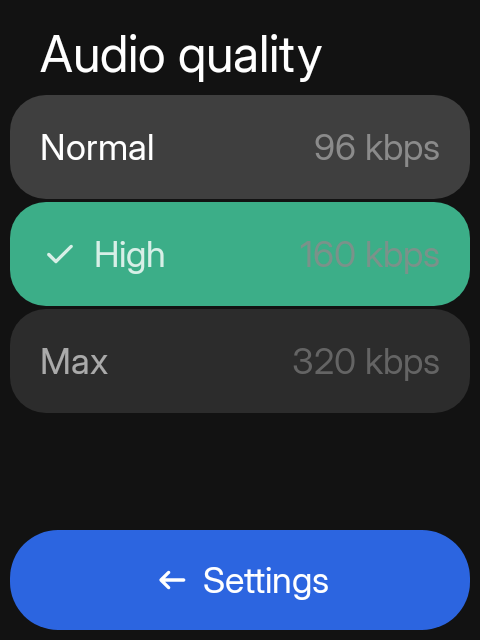
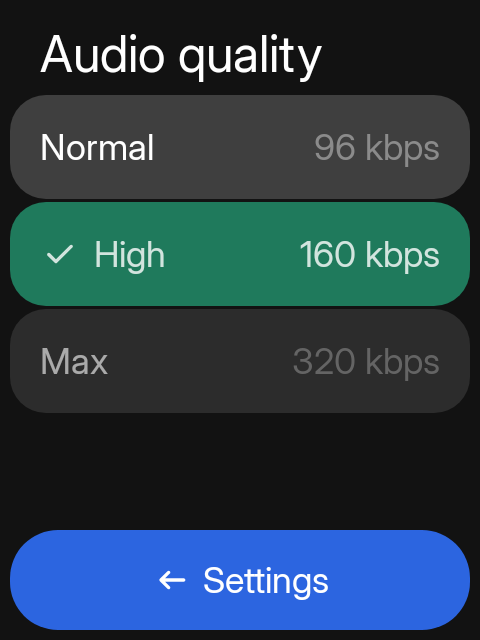
fix(settings): paint active rows in the album-tile green
The sleep timer and audio quality pickers used the bright emphasis green
for the selected row. Use the same success green as the landing page's
album tile, and keep the icon, title and trailing value white so the row
stays readable.

Changed region(s): [[0.0, 0.3125, 1.0, 0.5]]

diff --git a/app/src/main/java/io/github/manuelrtsch/sidetrack/SidetrackItem.kt b/app/src/main/java/io/github/manuelrtsch/sidetrack/SidetrackItem.kt
@@ -15,6 +15,7 @@ import androidx.compose.runtime.Composable
 import androidx.compose.ui.Alignment
 import androidx.compose.ui.Modifier
 import androidx.compose.ui.draw.clip
+import androidx.compose.ui.graphics.Color
 import androidx.compose.ui.semantics.Role
 import androidx.compose.ui.text.style.TextAlign
 import androidx.compose.ui.text.style.TextDecoration
@@ -42,6 +43,10 @@ fun SidetrackItem(
     showLinkArrow: Boolean = false,
     showLinkArrowWithSecondary: Boolean = false,
     colour: ItemColour = ItemColour.Primary,
+    /** Overrides [colour]'s container, e.g. to paint an active row in the action colour. */
+    containerColor: Color? = null,
+    /** Overrides the trailing value's colour; defaults to the muted surface tone. */
+    secondaryColor: Color? = null,
     titleDecoration: TextDecoration? = null,
     /** When set, the row is exposed as a switch/checkbox with this checked state. */
     toggleable: Boolean? = null,
@@ -52,7 +57,8 @@ fun SidetrackItem(
     onClick: (() -> Unit)? = null,
     leading: (@Composable RowScope.() -> Unit)? = null
 ) {
-    val contentColor = SidekitTheme.colors.contentColorFor(colour.container())
+    val background = containerColor ?: colour.container()
+    val contentColor = SidekitTheme.colors.contentColorFor(background)
     val content: @Composable () -> Unit = {
         Row(
             modifier = Modifier.padding(horizontal = SidekitTheme.spacing.itemPadding),
@@ -67,7 +73,7 @@ fun SidetrackItem(
                 SidekitText(
                     secondary,
                     if (secondaryNoEllipsis) Modifier else Modifier.weight(1f),
-                    color = SidekitTheme.colors.surfaceA6,
+                    color = secondaryColor ?: SidekitTheme.colors.surfaceA6,
                     textAlign = if (secondaryToEnd) TextAlign.End else null
                 )
             }
@@ -86,7 +92,7 @@ fun SidetrackItem(
             modifier = modifier.fillMaxWidth()
                 .height(SidekitTheme.spacing.itemHeight)
                 .clip(SidekitTheme.shapes.item)
-                .background(colour.container())
+                .background(background)
                 .toggleable(value = toggleable, role = toggleRole, onValueChange = { onClick?.invoke() }),
             contentAlignment = Alignment.CenterStart
         ) { content() }
@@ -95,14 +101,14 @@ fun SidetrackItem(
             modifier = modifier.fillMaxWidth()
                 .height(SidekitTheme.spacing.itemHeight)
                 .clip(SidekitTheme.shapes.item)
-                .background(colour.container())
+                .background(background)
                 .selectable(selected = selected, role = selectionRole, onClick = { onClick?.invoke() }),
             contentAlignment = Alignment.CenterStart
         ) { content() }
 
         else -> SidekitTile(
             modifier = modifier.fillMaxWidth(),
-            color = colour.container(),
+            color = background,
             onClick = onClick,
             contentAlignment = Alignment.CenterStart
         ) { content() }

diff --git a/app/src/main/java/io/github/manuelrtsch/sidetrack/SpotifySleepTimerScreen.kt b/app/src/main/java/io/github/manuelrtsch/sidetrack/SpotifySleepTimerScreen.kt
@@ -12,11 +12,11 @@ import androidx.compose.ui.focus.focusRequester
 import androidx.compose.ui.semantics.Role
 import androidx.lifecycle.compose.collectAsStateWithLifecycle
 import hrln.interactive.sidekit.design.action.SideAction
-import hrln.interactive.sidekit.design.components.ItemColour
 import hrln.interactive.sidekit.design.components.SidekitList
 import hrln.interactive.sidekit.design.components.SidekitScaffold
 import hrln.interactive.sidekit.design.components.listFade
 import hrln.interactive.sidekit.design.icons.SidekitIcon
+import hrln.interactive.sidekit.design.theme.SidekitTheme
 import io.github.manuelrtsch.sidetrack.playback.SleepTimerDurations
 import io.github.manuelrtsch.sidetrack.playback.SleepTimerState
 import kotlinx.coroutines.flow.StateFlow
@@ -48,7 +48,7 @@ fun SpotifySleepTimerScreen(
                     "Off",
                     Modifier.listFade(listState, 0).then(Modifier.focusRequester(first)),
                     icon = if (selected) SidekitIcon.Check else null,
-                    colour = if (selected) ItemColour.Secondary else ItemColour.Primary,
+                    containerColor = if (selected) SidekitTheme.colors.successA1 else null,
                     selected = selected,
                     selectionRole = Role.RadioButton,
                     onClick = onOff
@@ -66,7 +66,8 @@ fun SpotifySleepTimerScreen(
                         secondaryToEnd = true,
                         secondaryNoEllipsis = true,
                         icon = if (selected) SidekitIcon.Check else null,
-                        colour = if (selected) ItemColour.Secondary else ItemColour.Primary,
+                        containerColor = if (selected) SidekitTheme.colors.successA1 else null,
+                        secondaryColor = if (selected) SidekitTheme.colors.light else null,
                         selected = selected,
                         selectionRole = Role.RadioButton,
                         onClick = { onDuration(minutes) }
@@ -79,7 +80,7 @@ fun SpotifySleepTimerScreen(
                     "End of track",
                     Modifier.listFade(listState, SleepTimerDurations.size + 1),
                     icon = if (selected) SidekitIcon.Check else null,
-                    colour = if (selected) ItemColour.Secondary else ItemColour.Primary,
+                    containerColor = if (selected) SidekitTheme.colors.successA1 else null,
                     selected = selected,
                     selectionRole = Role.RadioButton,
                     onClick = onEndOfTrack

diff --git a/app/src/main/java/io/github/manuelrtsch/sidetrack/SpotifySettingsScreens.kt b/app/src/main/java/io/github/manuelrtsch/sidetrack/SpotifySettingsScreens.kt
@@ -238,7 +238,8 @@ fun SpotifyAudioQualityScreen(
                         secondaryToEnd = true,
                         secondaryNoEllipsis = true,
                         icon = if (selected) SidekitIcon.Check else null,
-                        colour = if (selected) ItemColour.Secondary else ItemColour.Primary,
+                        containerColor = if (selected) SidekitTheme.colors.successA1 else null,
+                        secondaryColor = if (selected) SidekitTheme.colors.light else null,
                         selected = selected,
                         selectionRole = Role.RadioButton,
                         onClick = { onSelect(quality) }
